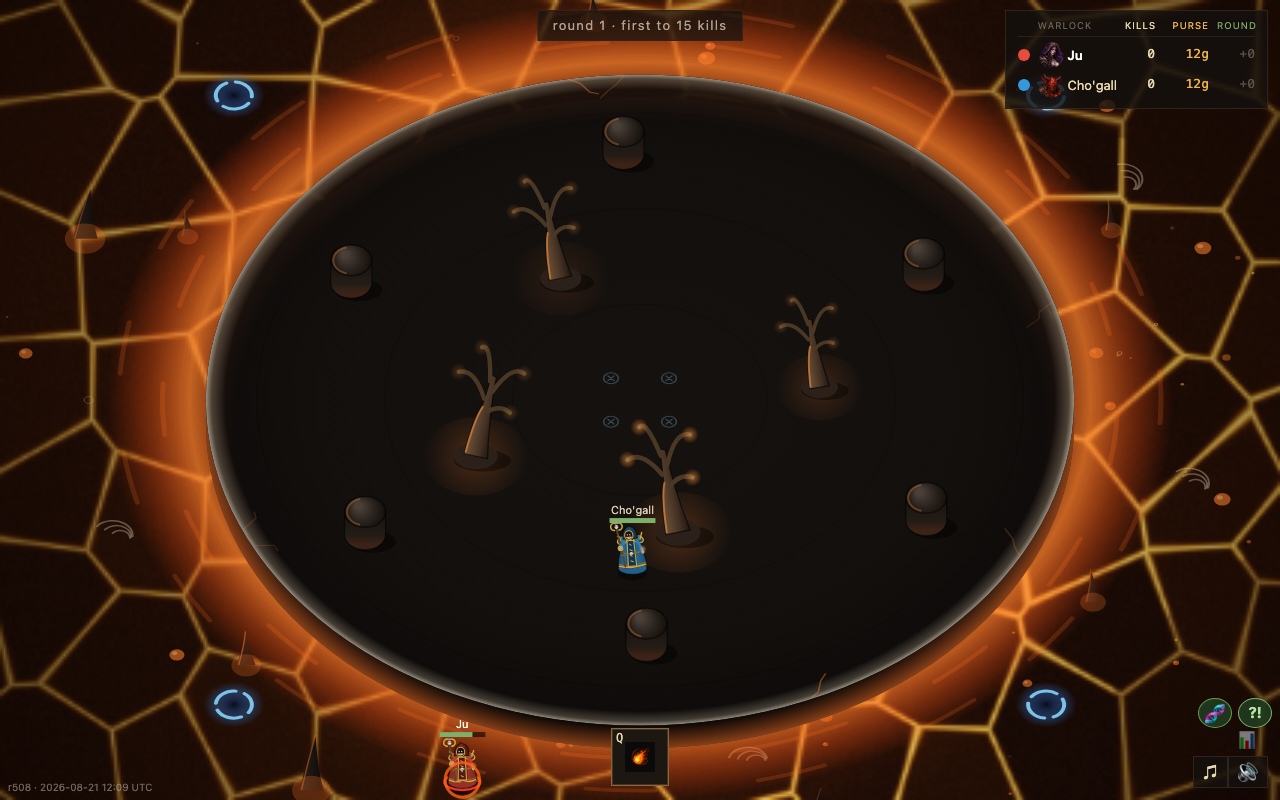
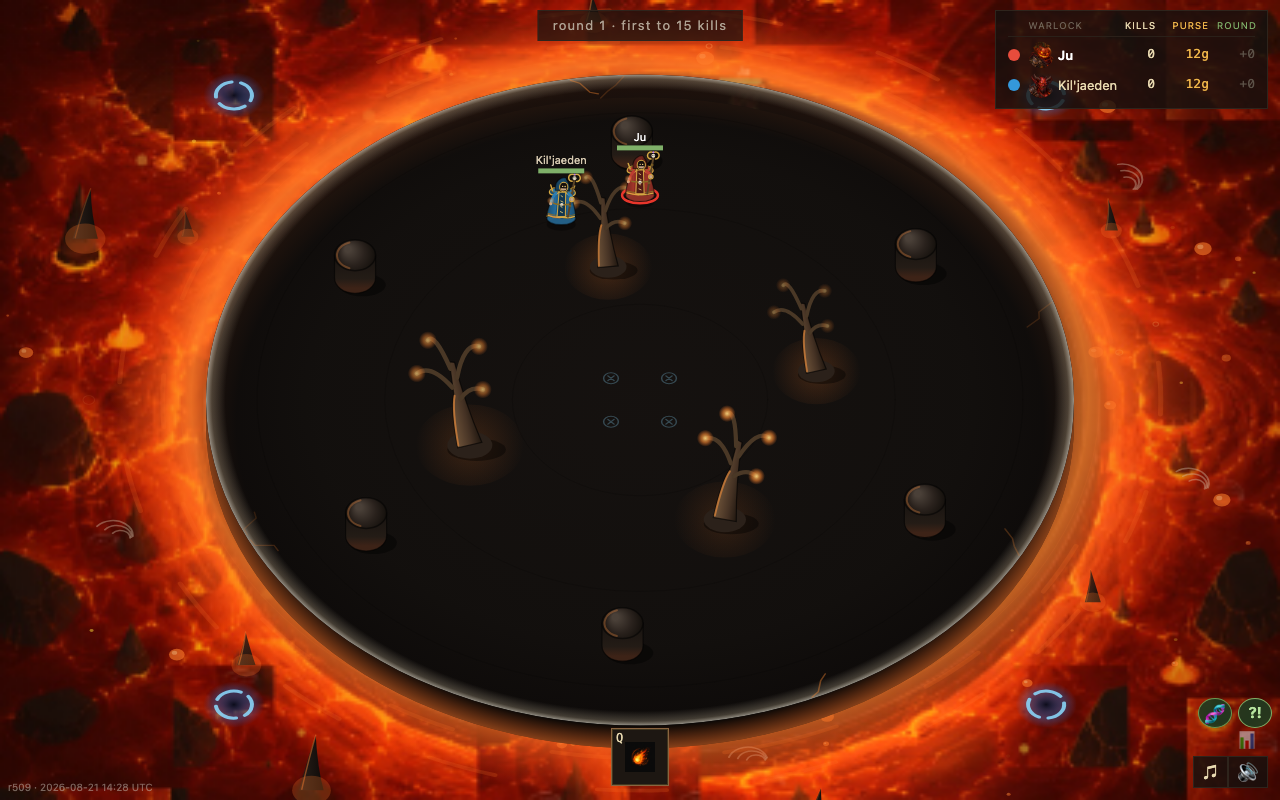
Ju v21.3 (issue #13): his generated lava image IS the background now (UI regions cloned out, q65 jpeg), with motion painted on top (heat waves, embers, breathing halo, slow pan); the v21.2 Voronoi stays as the load fallback

diff --git a/client/render.js b/client/render.js
@@ -11,8 +11,11 @@ import { drawWizard, forgetWizards } from './wizard.js';
 // nothing here feeds geometry. The arena radius, the shrink, the pillars and
 // every hitbox stay exactly what the simulation says they are.
 // v21 (Ju): Sam's still floor art (assets/ui/arena/floor.png) is replaced by
-// the procedural moving lava in drawBackdrop; restore these two lines and the
-// old drawCover call to bring the painting back.
+// the moving lava in drawBackdrop; v21.3 (Ju: "copie-colle mon image"): the
+// base layer IS his image now (UI regions cloned out), with motion painted on
+// top. The v21.2 Voronoi magma stays as the load-time fallback.
+const LAVA_SEA = new Image();
+LAVA_SEA.src = new URL('../assets/ui/arena/lava-sea.jpg', import.meta.url).href;
 let lastDrawAt = 0;
 let seenProjectiles = new Set();
 const lastHp = new Map();
@@ -1754,46 +1757,60 @@ function drawBackdrop(view, worldAlpha, t) {
   const ctx = view.bctx;
   const w = view.back.width, h = view.back.height;
   if (worldAlpha <= 0.01) { ctx.clearRect(0, 0, w, h); return; }
-  if (!MAGMA) makeMagma();
   const cx = w / 2, cy = h / 2;
   const maxR = Math.hypot(w, h) / 2;
-  // the rock crust, slowly creeping (a gentle pan inside the oversized tile)
-  const scale2 = Math.max(w, h) / MAGMA.S * 1.25;
-  const panX = Math.sin(t * 0.02) * 18 - (MAGMA.S * scale2 - w) / 2;
-  const panY = Math.cos(t * 0.016) * 14 - (MAGMA.S * scale2 - h) / 2;
-  ctx.setTransform(scale2, 0, 0, scale2, panX, panY);
-  ctx.drawImage(MAGMA.rock, 0, 0);
-  // the veins: a dim ever-present base glow...
-  ctx.globalAlpha = 0.55 + 0.1 * Math.sin(t * 0.9);
-  ctx.drawImage(MAGMA.veins, 0, 0);
   ctx.setTransform(1, 0, 0, 1, 0, 0);
-  // ...plus HEAT WAVES: three hot spots drifting over the sea, each lighting
-  // the veins it passes (clip to a circle, redraw the vein layer brighter)
+  if (LAVA_SEA.complete && LAVA_SEA.naturalWidth) {
+    // v21.3: JU'S image is the ground truth. A slow breathing pan keeps the
+    // still alive even before the effects land on top.
+    const iw = LAVA_SEA.naturalWidth, ih = LAVA_SEA.naturalHeight;
+    const s2 = Math.max(w / iw, h / ih) * (1.03 + 0.012 * Math.sin(t * 0.11));
+    const dx = (w - iw * s2) / 2 + Math.sin(t * 0.07) * 6;
+    const dy = (h - ih * s2) / 2 + Math.cos(t * 0.09) * 5;
+    ctx.drawImage(LAVA_SEA, dx, dy, iw * s2, ih * s2);
+  } else {
+    if (!MAGMA) makeMagma();
+    const scale2 = Math.max(w, h) / MAGMA.S * 1.25;
+    ctx.setTransform(scale2, 0, 0, scale2, -(MAGMA.S * scale2 - w) / 2, -(MAGMA.S * scale2 - h) / 2);
+    ctx.drawImage(MAGMA.rock, 0, 0);
+    ctx.drawImage(MAGMA.veins, 0, 0);
+    ctx.setTransform(1, 0, 0, 1, 0, 0);
+  }
+  // heat waves: drifting hot spots brightening the lava they pass over
+  ctx.globalCompositeOperation = 'lighter';
   for (let k = 0; k < 3; k++) {
     const ang = t * (0.10 + k * 0.05) + k * 2.1;
     const hx = cx + Math.cos(ang) * maxR * 0.55;
     const hy = cy + Math.sin(ang) * maxR * 0.45;
-    const hr = maxR * 0.34;
-    ctx.save();
-    ctx.beginPath(); ctx.arc(hx, hy, hr, 0, Math.PI * 2); ctx.clip();
-    ctx.globalAlpha = 0.5 + 0.25 * Math.sin(t * 1.5 + k * 2);
-    ctx.setTransform(scale2, 0, 0, scale2, panX, panY);
-    ctx.drawImage(MAGMA.veins, 0, 0);
-    ctx.restore();
-    ctx.setTransform(1, 0, 0, 1, 0, 0);
+    const hr = maxR * 0.30;
+    const g = ctx.createRadialGradient(hx, hy, 0, hx, hy, hr);
+    const a2 = 0.10 + 0.06 * Math.sin(t * 1.5 + k * 2);
+    g.addColorStop(0, `rgba(255, 170, 60, ${a2})`);
+    g.addColorStop(1, 'rgba(255, 140, 40, 0)');
+    ctx.fillStyle = g;
+    ctx.beginPath(); ctx.arc(hx, hy, hr, 0, Math.PI * 2); ctx.fill();
   }
-  ctx.globalAlpha = 1;
-  // the hot halo hugging the slab (the reference's light), breathing slowly
-  const halo = ctx.createRadialGradient(cx, cy, maxR * 0.18, cx, cy, maxR * (0.62 + 0.02 * Math.sin(t * 0.7)));
-  halo.addColorStop(0, 'rgba(255, 150, 40, 0.36)');
-  halo.addColorStop(0.5, 'rgba(255, 110, 25, 0.16)');
+  ctx.globalCompositeOperation = 'source-over';
+  // rising embers, stateless from (index, t)
+  for (let i = 0; i < 14; i++) {
+    const h1 = Math.sin(i * 127.3) * 0.5 + 0.5;
+    const h2 = Math.sin(i * 61.7) * 0.5 + 0.5;
+    const period = 3 + h2 * 3;
+    const ph = ((t + h1 * 41) % period) / period;
+    const ex2 = (h1 * 1.3 % 1) * w + Math.sin(ph * 8 + i) * 8;
+    const ey2 = h * (0.15 + 0.8 * h2) - ph * 34;
+    ctx.fillStyle = `rgba(255, ${180 + 50 * h2 | 0}, 70, ${0.5 * (1 - ph)})`;
+    ctx.beginPath(); ctx.arc(ex2, ey2, 1 + h1, 0, Math.PI * 2); ctx.fill();
+  }
+  // the breathing halo at the slab, and darkened far corners
+  const halo = ctx.createRadialGradient(cx, cy, maxR * 0.18, cx, cy, maxR * (0.60 + 0.03 * Math.sin(t * 0.7)));
+  halo.addColorStop(0, 'rgba(255, 150, 40, 0.22)');
   halo.addColorStop(1, 'rgba(255, 90, 20, 0)');
   ctx.fillStyle = halo;
   ctx.fillRect(0, 0, w, h);
-  // darkened far corners, like the reference
-  const dark = ctx.createRadialGradient(cx, cy, maxR * 0.55, cx, cy, maxR * 1.05);
+  const dark = ctx.createRadialGradient(cx, cy, maxR * 0.6, cx, cy, maxR * 1.05);
   dark.addColorStop(0, 'rgba(10, 3, 1, 0)');
-  dark.addColorStop(1, 'rgba(10, 3, 1, 0.55)');
+  dark.addColorStop(1, 'rgba(10, 3, 1, 0.4)');
   ctx.fillStyle = dark;
   ctx.fillRect(0, 0, w, h);
 }

diff --git a/shared/version.js b/shared/version.js
@@ -2,4 +2,4 @@
 // rN = repo commit count. Shown in the client corner, in /health and in the
 // welcome handshake, so a stale tab, a stale Pages CDN copy or a mixed
 // client/server pair announces itself instead of being a mystery.
-export const VERSION = 'r509 · 2026-08-21 14:28 UTC';
+export const VERSION = 'r510 · 2026-08-21 14:40 UTC';
